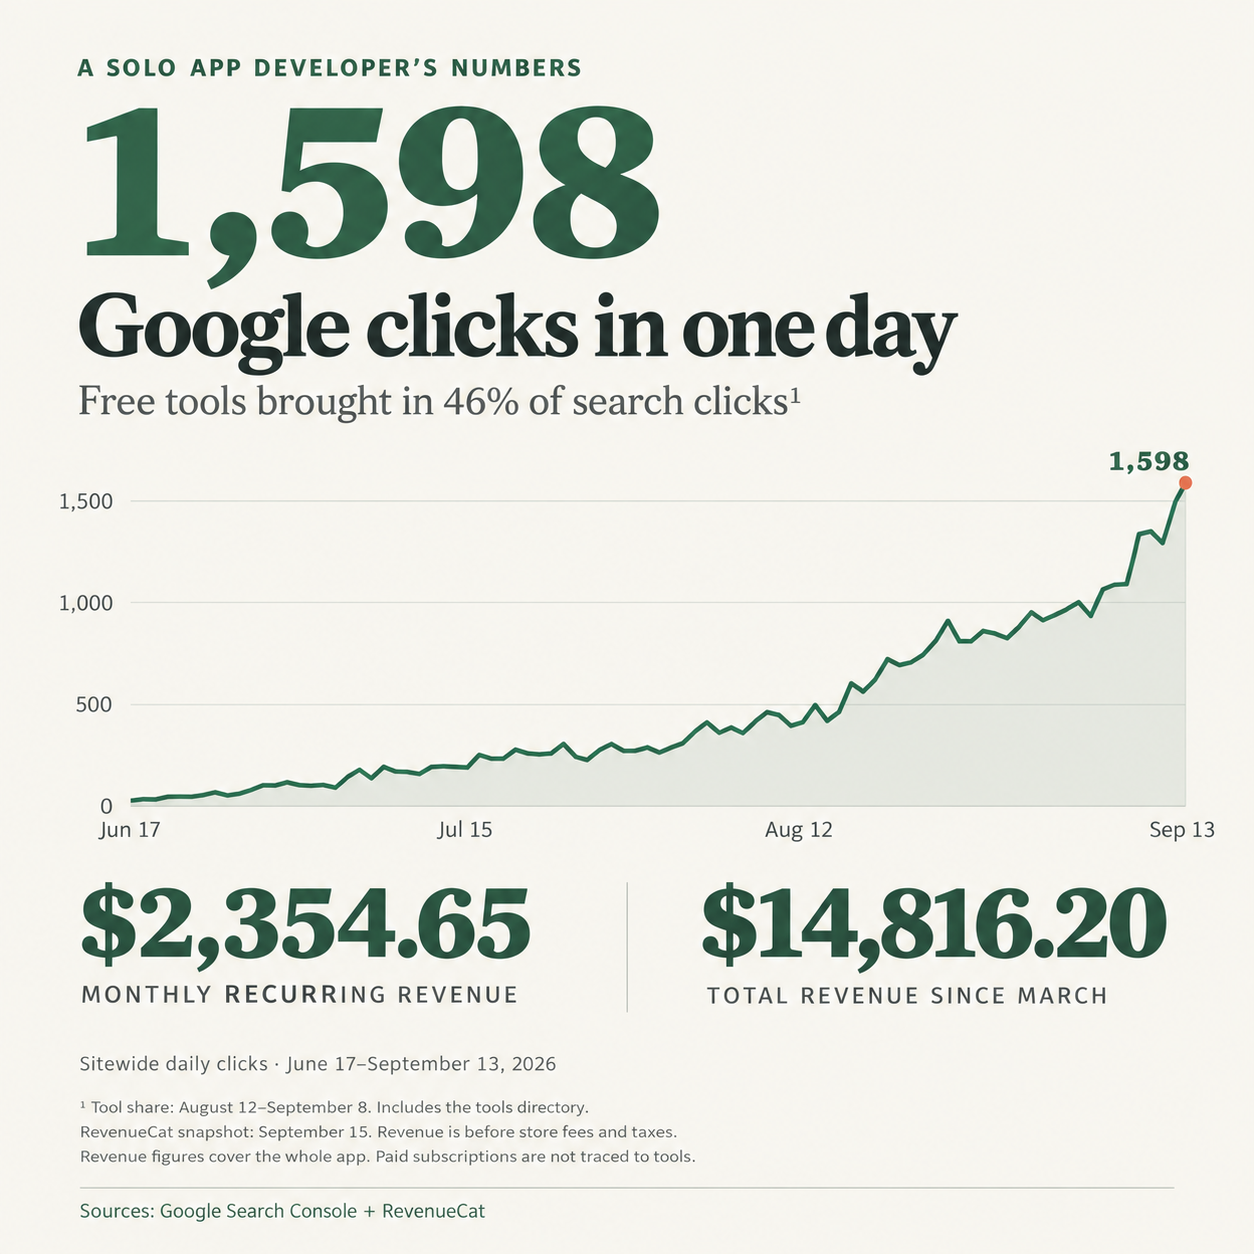
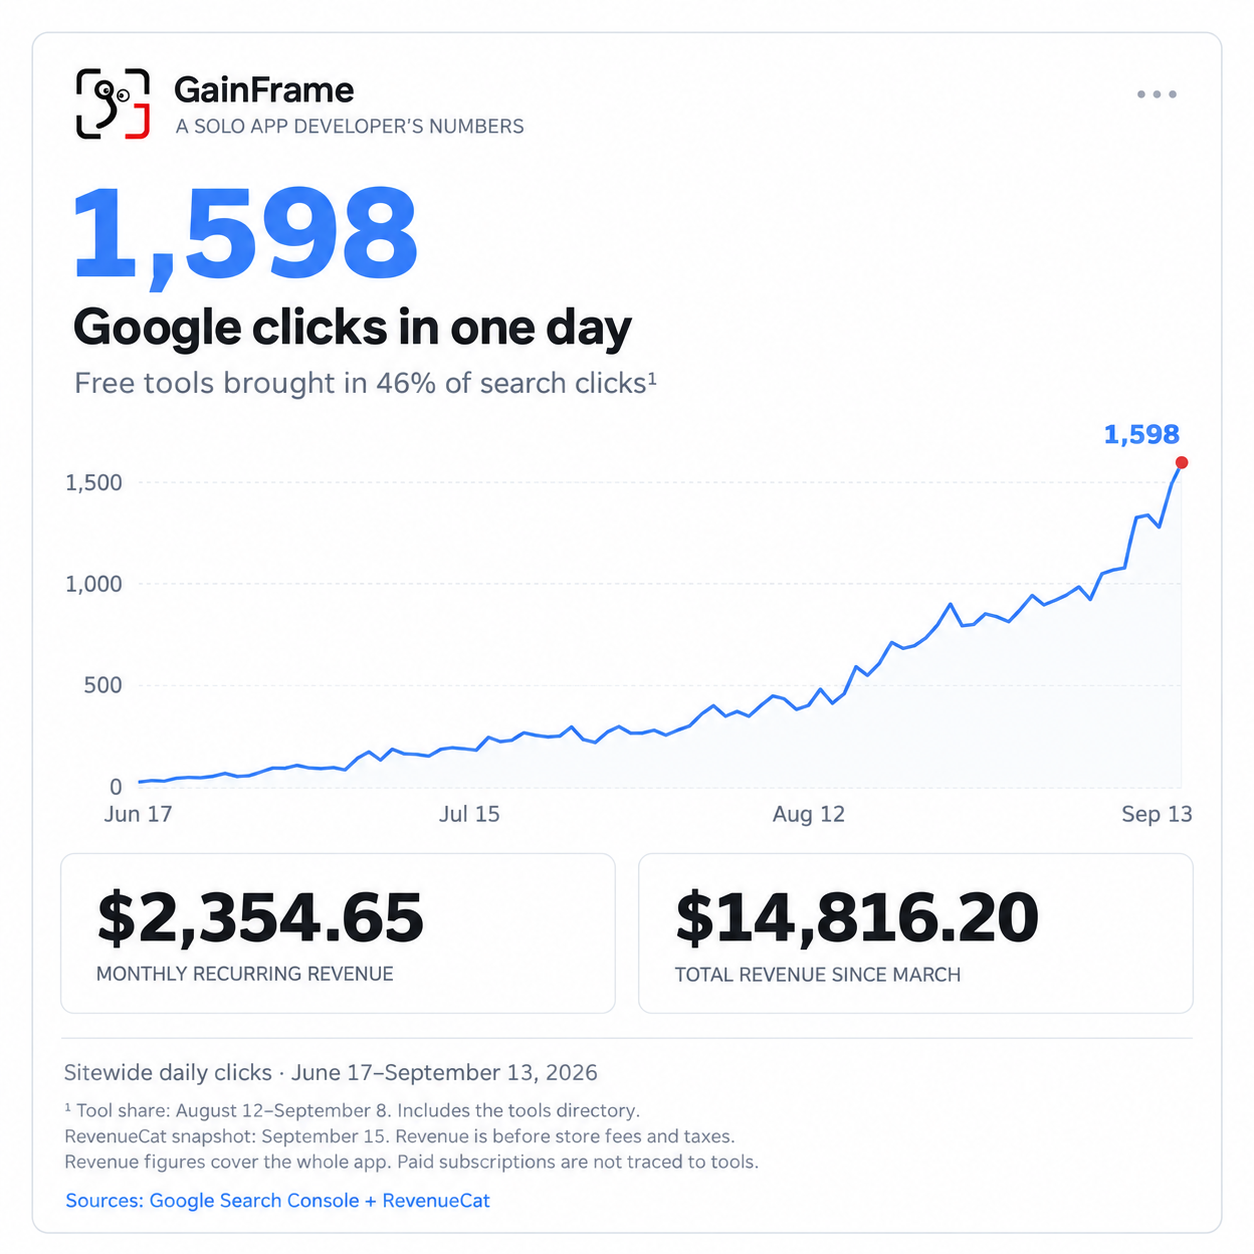
style: refresh founder growth graphics with clean cartoons

diff --git a/analytics/founder-posts/2026-09-15-free-tools-growth/README.md b/analytics/founder-posts/2026-09-15-free-tools-growth/README.md
@@ -44,6 +44,10 @@ Five final assets were created with the built-in image generation tool: cover, s
 
 `image-prompts.json` contains all prompts, including the contrast correction to the funnel illustration. The diagram shows the intended user journey, not measured conversion at each stage. Revenue statistics cover the entire app and are not attributed to the tools.
 
+### Revised graphics
+
+The final published set uses the owner's revised direction: white dashboard cards, fine gray lines, clear-blue charts, and small original cartoons incorporating GainFrame's scan-frame face. All five assets were regenerated with the built-in image tool. `image-prompts-v2.json` contains the selected prompts; `visual-direction-v2.md` records the brief. The three data plots in `output/free-tools-app-growth/v2/` supplied the chart references. The shared inspiration screenshot remains local and is excluded from the downloadable package. The first version's prompts are retained for history.
+
 ## Validation
 
 The new MDX compiled with the site's renderer and GFM tables. Metadata, structured data, image paths, linked blog posts, and the generated blog listing were checked. The assembled page and all four article images were inspected in the local browser. The sitemap discovers the article automatically from its MDX file.

diff --git a/analytics/founder-posts/2026-09-15-free-tools-growth/visual-direction-v2.md b/analytics/founder-posts/2026-09-15-free-tools-growth/visual-direction-v2.md
@@ -1,0 +1,16 @@
+# Revised visual direction
+
+The owner requested a cleaner style after reviewing the first graphics on September 15, 2026. The new reference is a minimal white software dashboard with thin gray rules, understated charts, and small hand-drawn cartoon avatars.
+
+## Selected direction
+
+- Pure white backgrounds.
+- Near-black sans-serif typography; regular and semibold weights.
+- Fine cool-gray borders, understated grid lines, generous open space.
+- A restrained clear-blue chart accent.
+- Small original cartoon touches; GainFrame's scan-frame face supplies the brand identity.
+- No cream, sage, forest green, gold, paper textures, foliage, serif poster typography, or dimensional effects.
+
+The reference supplies visual treatment only. Its brand, customer data, browser chrome, and exact interface are not reused. The chart data, reporting periods, revenue definitions, and attribution limitations remain the same as in the first version.
+
+The final five files replace the first version at the same public asset paths. The original assets are retained in git history and the image-generation output directory. The source chart renderings for the revised style are in `output/free-tools-app-growth/v2/`.
